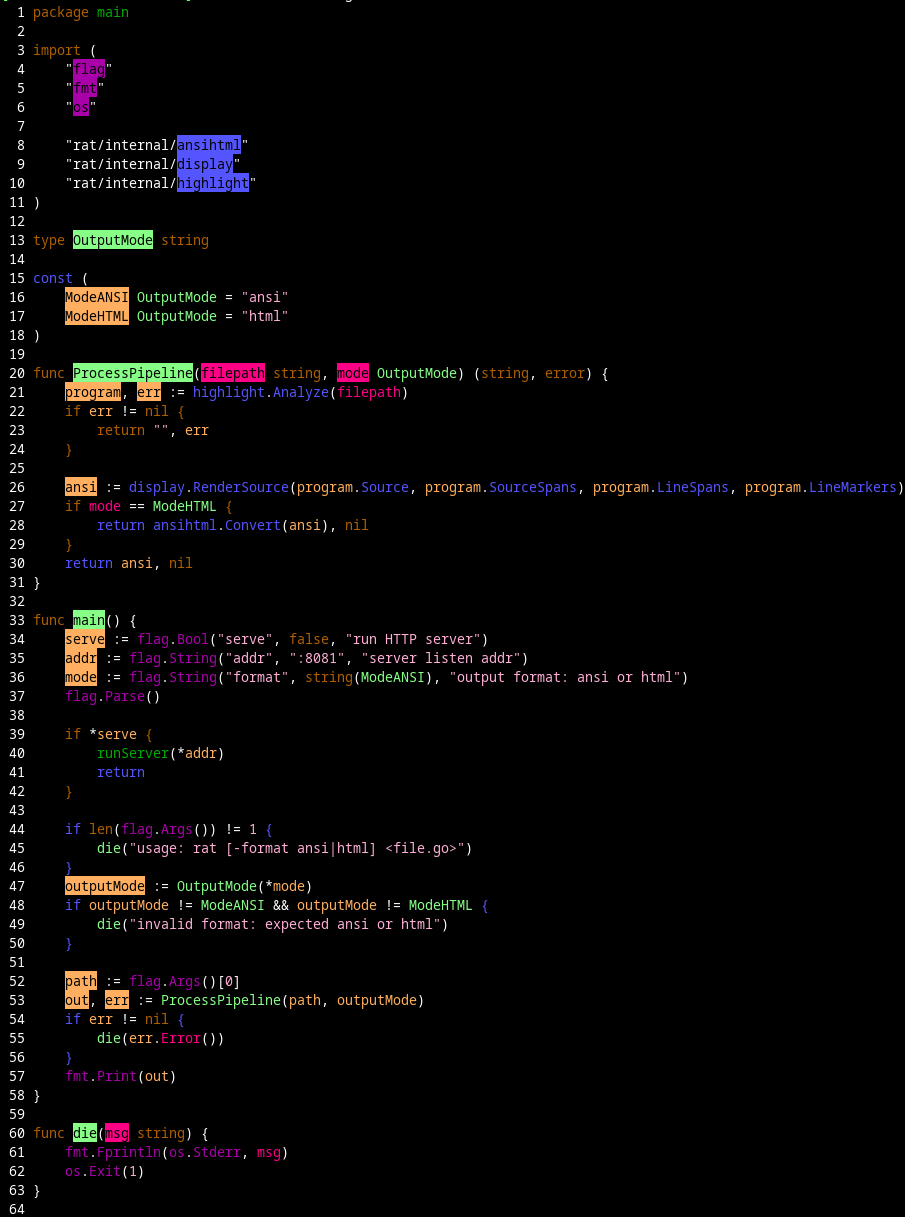
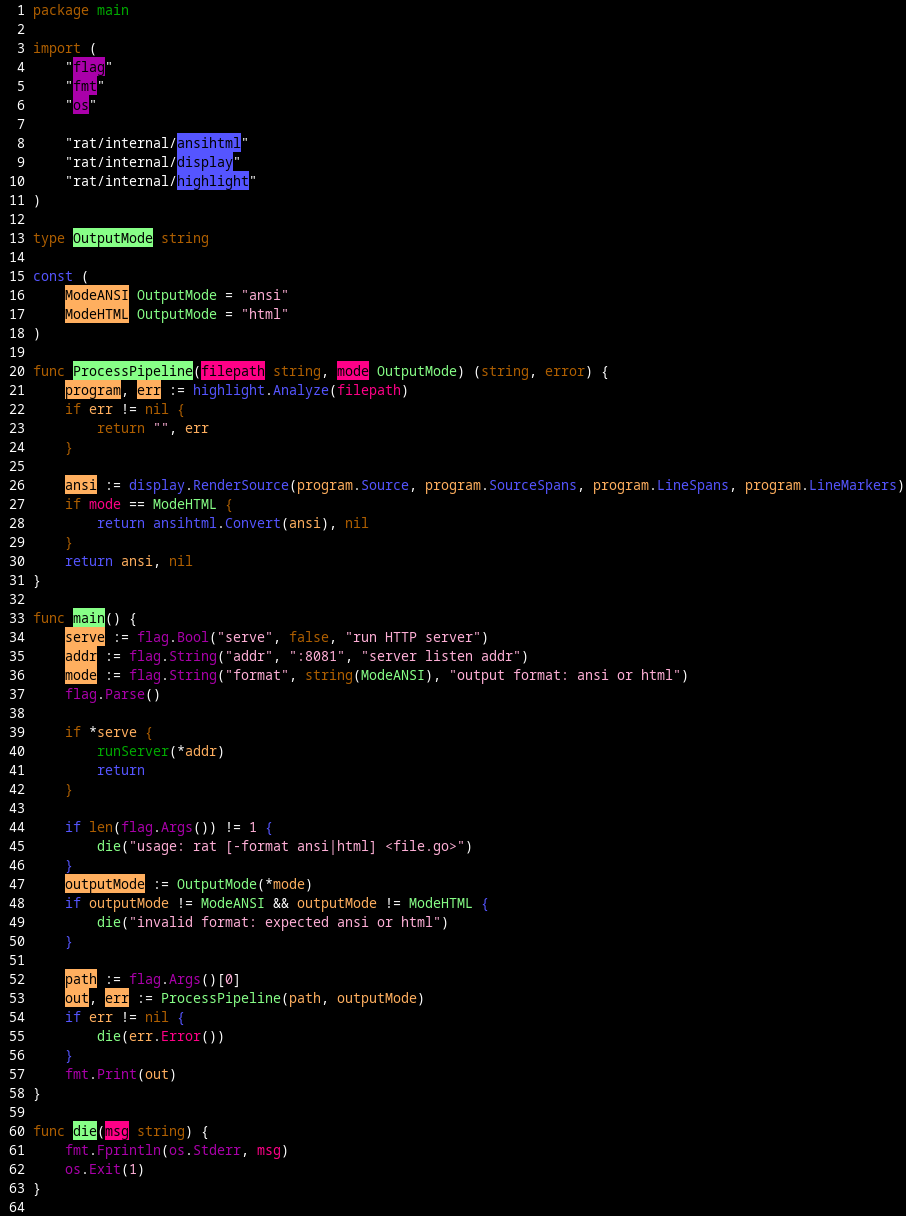
use lower resolution struct field color for external imports to be less overwhelming.

diff --git a/internal/highlight/format.go b/internal/highlight/format.go
@@ -560,20 +560,21 @@ func appendBraceMarks(marks *[]controlFlowMark, open, close file.Location, style
 func addTopLevelStructFieldDeclarationSpans(root string, out map[int][]display.Span, sourceLines []string, f file.File) {
 	for _, named := range file.TopLevelNamedFields(f) {
 		distanceLoc := named.DistanceLocation()
+		externalStructInstantiation := distanceLoc != nil && !samePackageLocation(named.Location(), distanceLoc)
 		if distanceLoc == nil {
 			distanceLoc = named.Location()
 		}
-		addSpan(out, sourceLines, named.Location(), named.Text(), display.Span{Style: fieldTypeDistanceStyle(root, distanceLoc, named.DeclarationLocations(), !named.Inline()), Priority: 1})
+		addSpan(out, sourceLines, named.Location(), named.Text(), display.Span{Style: fieldTypeDistanceStyle(root, distanceLoc, named.DeclarationLocations(), !named.Inline(), externalStructInstantiation), Priority: 1})
 	}
 }
 
-func fieldTypeDistanceStyle(root string, source file.Location, targets []file.Location, invert bool) display.Style {
+func fieldTypeDistanceStyle(root string, source file.Location, targets []file.Location, invert bool, packageResolution bool) display.Style {
 	rank := fieldTypeDistanceBuiltin
 	if source == nil {
 		rank = fieldTypeDistanceExternal
 	} else {
 		for _, target := range targets {
-			rank = max(rank, fieldTypeDistanceRank(root, source, target))
+			rank = max(rank, fieldTypeDistanceRank(root, source, target, packageResolution))
 		}
 	}
 
@@ -734,13 +735,13 @@ const (
 	fieldTypeDistanceExternal
 )
 
-func fieldTypeDistanceRank(root string, source, target file.Location) fieldTypeDistance {
+func fieldTypeDistanceRank(root string, source, target file.Location, packageResolution bool) fieldTypeDistance {
 	switch {
 	case target == nil:
 		return fieldTypeDistanceExternal
 	case isBuiltinLocation(target):
 		return fieldTypeDistanceBuiltin
-	case sameFileLocation(source, target):
+	case !packageResolution && sameFileLocation(source, target):
 		return fieldTypeDistanceSameFile
 	case samePackageLocation(source, target):
 		return fieldTypeDistanceSamePackage
@@ -767,7 +768,7 @@ func sameFileLocation(left, right file.Location) bool {
 }
 
 func samePackageLocation(left, right file.Location) bool {
-	if sameFileLocation(left, right) || left == nil || right == nil {
+	if left == nil || right == nil {
 		return false
 	}
 	return filepath.Dir(filepath.Clean(left.File())) == filepath.Dir(filepath.Clean(right.File()))

diff --git a/README.md b/README.md
@@ -14,9 +14,10 @@ rat main.go
 
 You can also run it as a VS Code plugin.
 
+Dislaimer: I vibe coded most of this (including the README). Dev-tools can afford to be probably right as long as they help more than they hurt and the developer is aware. I'm focused more on the ergonomics of this tool rather than the correctness at the moment. If you find any errors, please let me know.
+
 ## Motivation
 
-Dislaimer: I vibe coded most of this and had ChatGPT write this README. If you find any errors, please let me know.
 
 Syntax highlighting is useful, but it mostly repeats information you can already see. A keyword is visibly a keyword. An identifier is visibly an identifier.
 
@@ -43,7 +44,7 @@ Reference colors are based on the relationship between the place where a name is
 
 Declarations use an inverted/background style. That makes definitions stand out from references.
 
-Struct instantiation colors fields using the above key, but the distance is between the struct type declaration location and the field's type declaration location.
+Struct field names are colored by the relationship between the struct type declaration and the field type declaration. For struct literals whose type is declared outside the current package, package-level resolution is used: brown for built-ins, green for the struct type's package, blue for the same project, and purple for external dependencies or unknown targets.
 
 Examples:
 